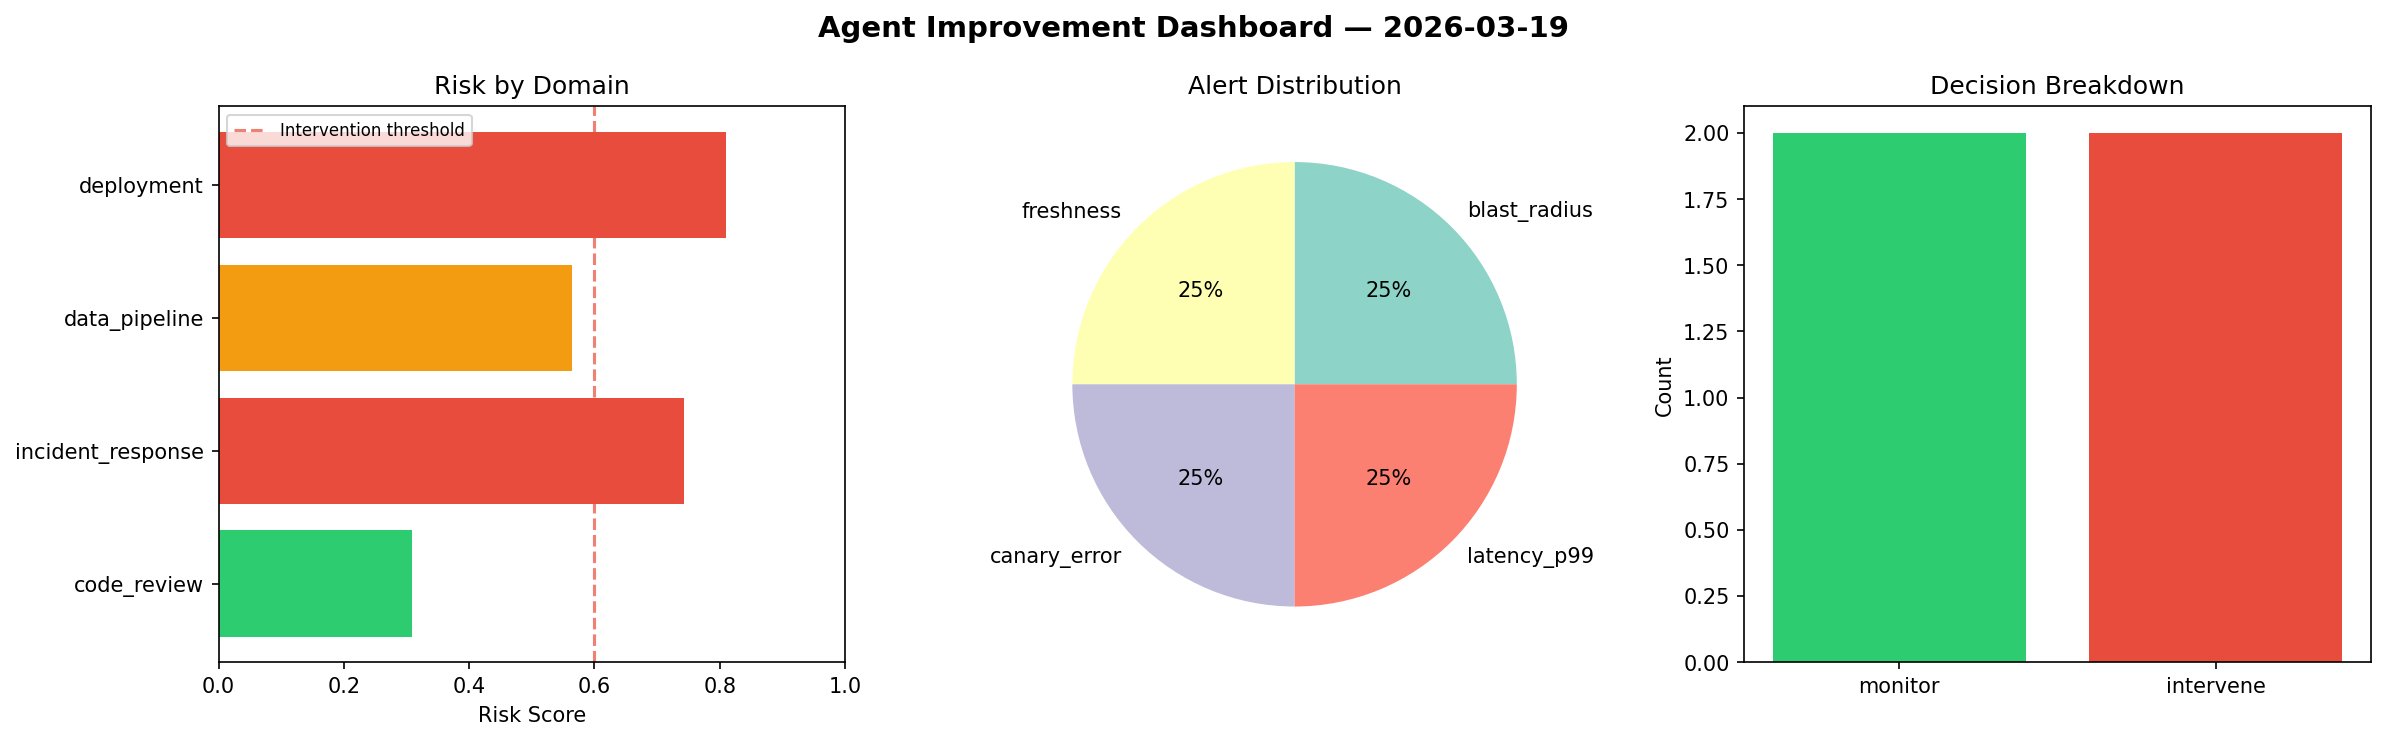
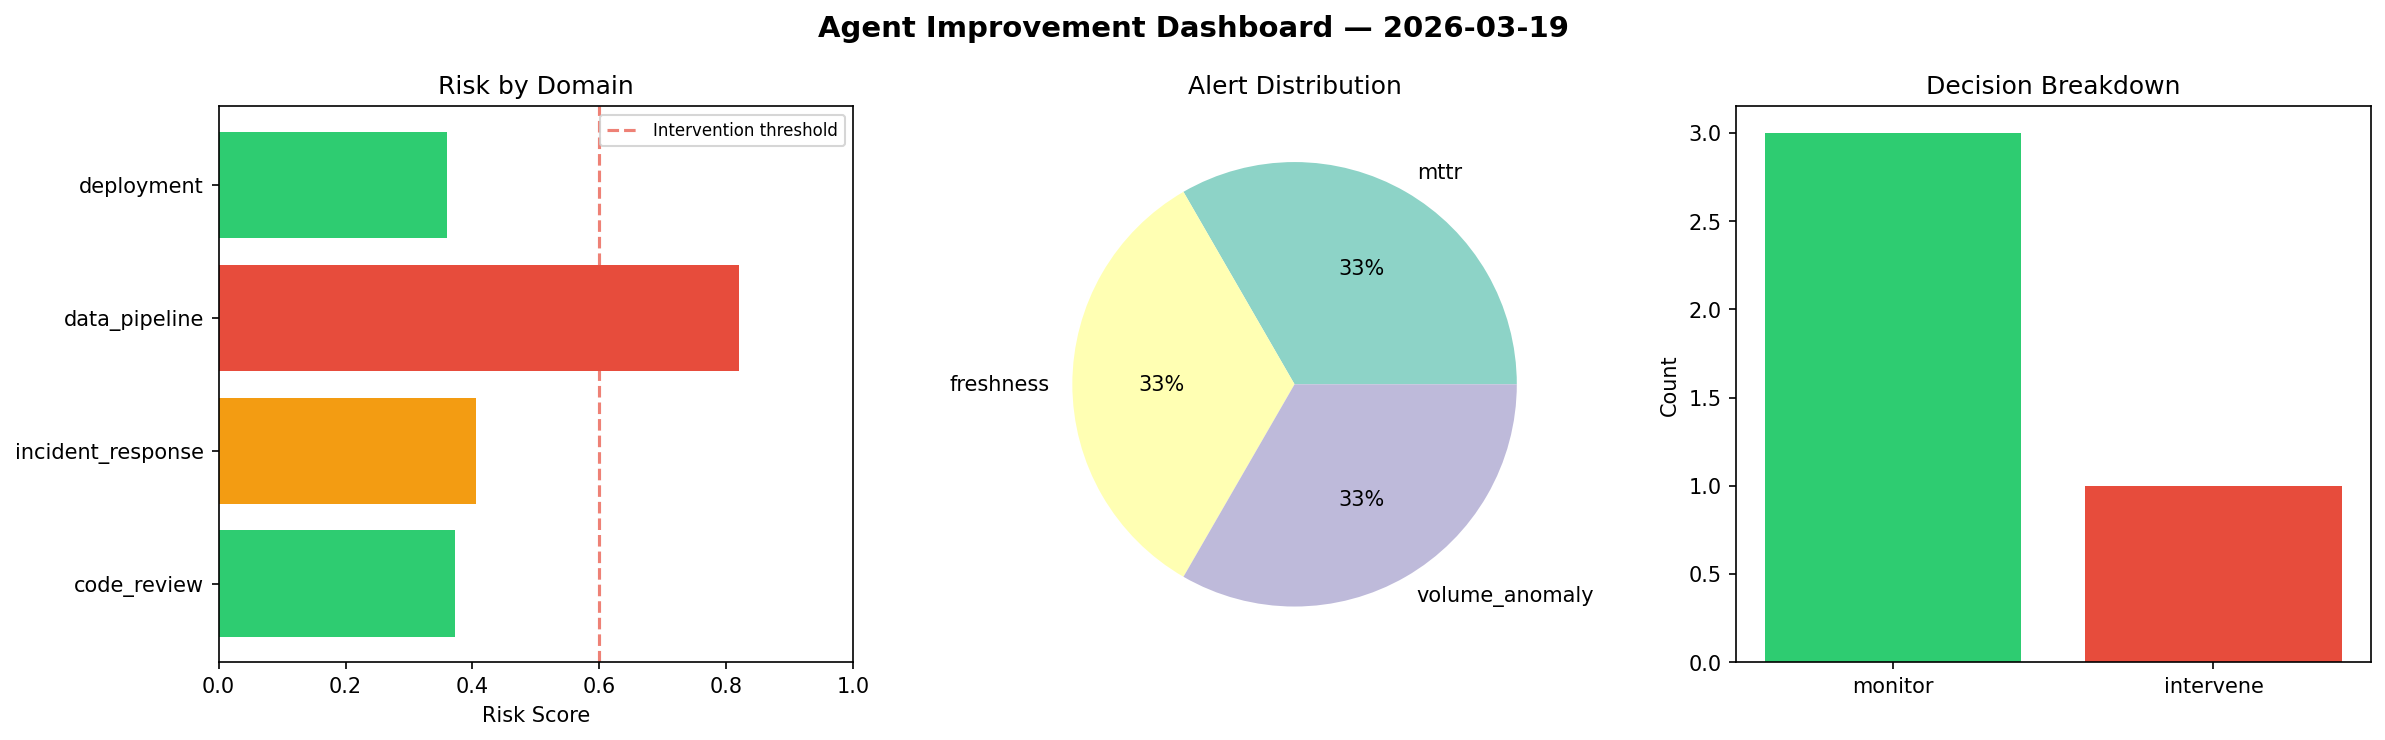
agent-improvement: daily cycle 2026-03-19T20:56

diff --git a/logs/2026-03-19.md b/logs/2026-03-19.md
@@ -1,6 +1,6 @@
 # Agent Improvement Report — 2026-03-19
 
-**Cycle ID:** `45648b4f` | **Avg Risk:** 0.606 | **Interventions:** 2/4
+**Cycle ID:** `ef0afa47` | **Avg Risk:** 0.4889 | **Interventions:** 1/4
 
 ![Dashboard](2026-03-19_dashboard.png)
 
@@ -10,18 +10,18 @@
 
 | Domain | Risk Score | Decision | Alerts |
 |--------|-----------|----------|--------|
-| code_review | 0.3082 | monitor | none |
-| incident_response | 0.7423 | intervene | blast_radius |
-| data_pipeline | 0.564 | monitor | freshness |
-| deployment | 0.8097 | intervene | canary_error, latency_p99 |
+| code_review | 0.3718 | monitor | none |
+| incident_response | 0.4051 | monitor | mttr |
+| data_pipeline | 0.8192 | intervene | freshness, volume_anomaly |
+| deployment | 0.3594 | monitor | none |
 
 ## Delta vs Yesterday
 
 | Domain | Today | Yesterday | Change |
 |--------|-------|-----------|--------|
-| code_review | 0.3082 | 0.5184 | 📉 -40.5% |
-| incident_response | 0.7423 | 0.1306 | 📈 468.4% |
-| data_pipeline | 0.564 | 0.5184 | 📈 8.8% |
-| deployment | 0.8097 | 0.4981 | 📈 62.6% |
+| code_review | 0.3718 | 0.5184 | 📉 -28.3% |
+| incident_response | 0.4051 | 0.1306 | 📈 210.2% |
+| data_pipeline | 0.8192 | 0.5184 | 📈 58.0% |
+| deployment | 0.3594 | 0.4981 | 📉 -27.8% |
 
-**Refinement:** `{'adjustment': 'tighten_thresholds', 'trend': 'degrading', 'window': 4}`
+**Refinement:** `{'adjustment': 'maintain', 'trend': 'improving', 'window': 4}`
